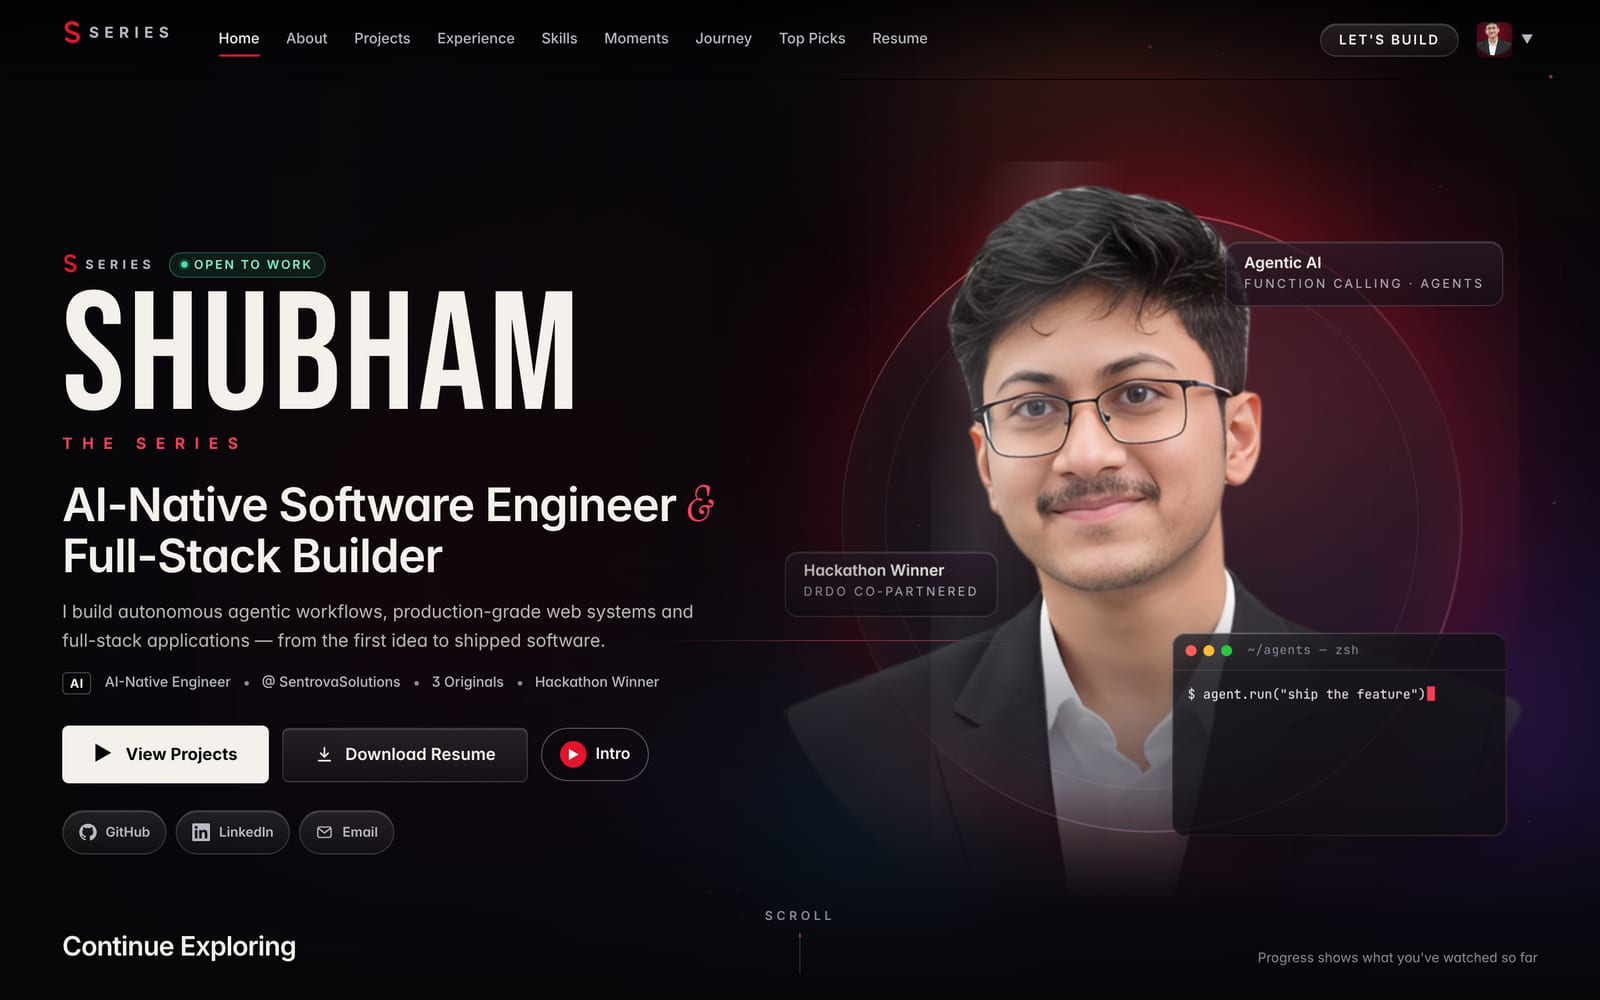
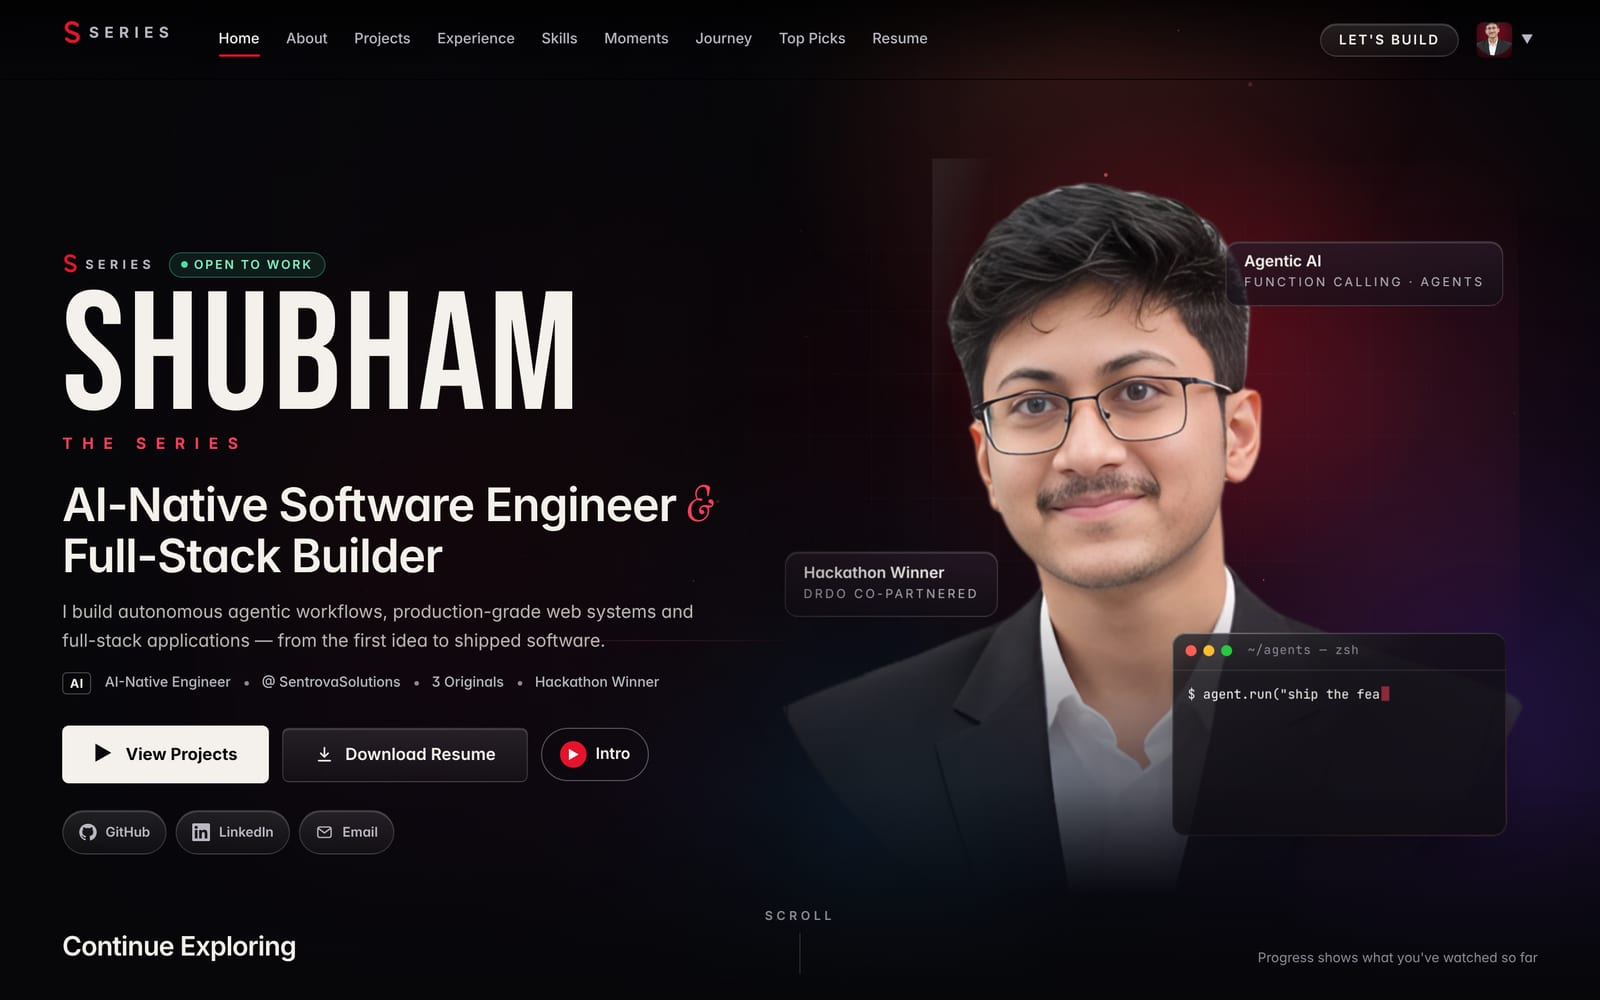
Remove the red ring around the hero portrait
The portrait now stands on the soft background glow alone; README GIF and screenshots updated to match.

diff --git a/src/components/Hero.tsx b/src/components/Hero.tsx
@@ -83,21 +83,6 @@ export default function Hero({ onPlay, onResume, profileId }: { onPlay: () => vo
           animate={{ clipPath: 'inset(-40% -40% -10% -40%)', opacity: 1, transitionEnd: { clipPath: 'none' } }}
           transition={{ duration: 1.6, ease: EASE, delay: 0.1 }}
         >
-          {/* frosted glass lens behind the portrait — the head rises out of its top edge */}
-          <div
-            aria-hidden
-            className="glass-panel no-backdrop absolute left-1/2 top-[6%] aspect-square h-[74%] -translate-x-1/2 rounded-full !bg-[radial-gradient(circle_at_50%_38%,rgba(255,255,255,0.10),rgba(255,255,255,0.03)_55%,rgba(229,19,43,0.10))]"
-          >
-            <span className="absolute inset-[7%] rounded-full border border-white/[0.07]" />
-            <span className="absolute left-[14%] top-[9%] h-[22%] w-[38%] -rotate-[28deg] rounded-[50%] bg-[radial-gradient(closest-side,rgba(255,255,255,0.2),transparent)]" />
-          </div>
-          {/* rotating rim-light ring */}
-          <div
-            aria-hidden
-            className="absolute left-1/2 top-[6%] aspect-square h-[74%] -translate-x-1/2 rounded-full motion-safe:animate-[spin-x_14s_linear_infinite] p-px [background:conic-gradient(from_0deg,transparent_0deg,rgba(255,61,90,0.9)_60deg,transparent_140deg,rgba(185,139,255,0.6)_220deg,transparent_300deg)] [mask:radial-gradient(farthest-side,transparent_calc(100%-2px),#000_calc(100%-1px))]"
-          />
-          <div aria-hidden className="absolute left-1/2 top-[6%] aspect-square h-[74%] -translate-x-1/2 rounded-full shadow-[0_0_140px_rgba(229,19,43,0.32),inset_0_0_90px_rgba(229,19,43,0.16)]" />
-
           {/* the photo — slow idle float on top of scroll + pointer parallax */}
           <div className="absolute inset-0 motion-safe:animate-[float_6s_ease-in-out_infinite]">
             <LivePortrait

diff --git a/src/index.css b/src/index.css
@@ -268,10 +268,6 @@ a:focus-visible {
 }
 
 /* compositor-only loops for the hero (transform only, no JS per frame) */
-@keyframes spin-x {
-  from { transform: rotate(0deg); }
-  to { transform: rotate(360deg); }
-}
 @keyframes float {
   0%, 100% { transform: translateY(0); }
   50% { transform: translateY(-10px); }
